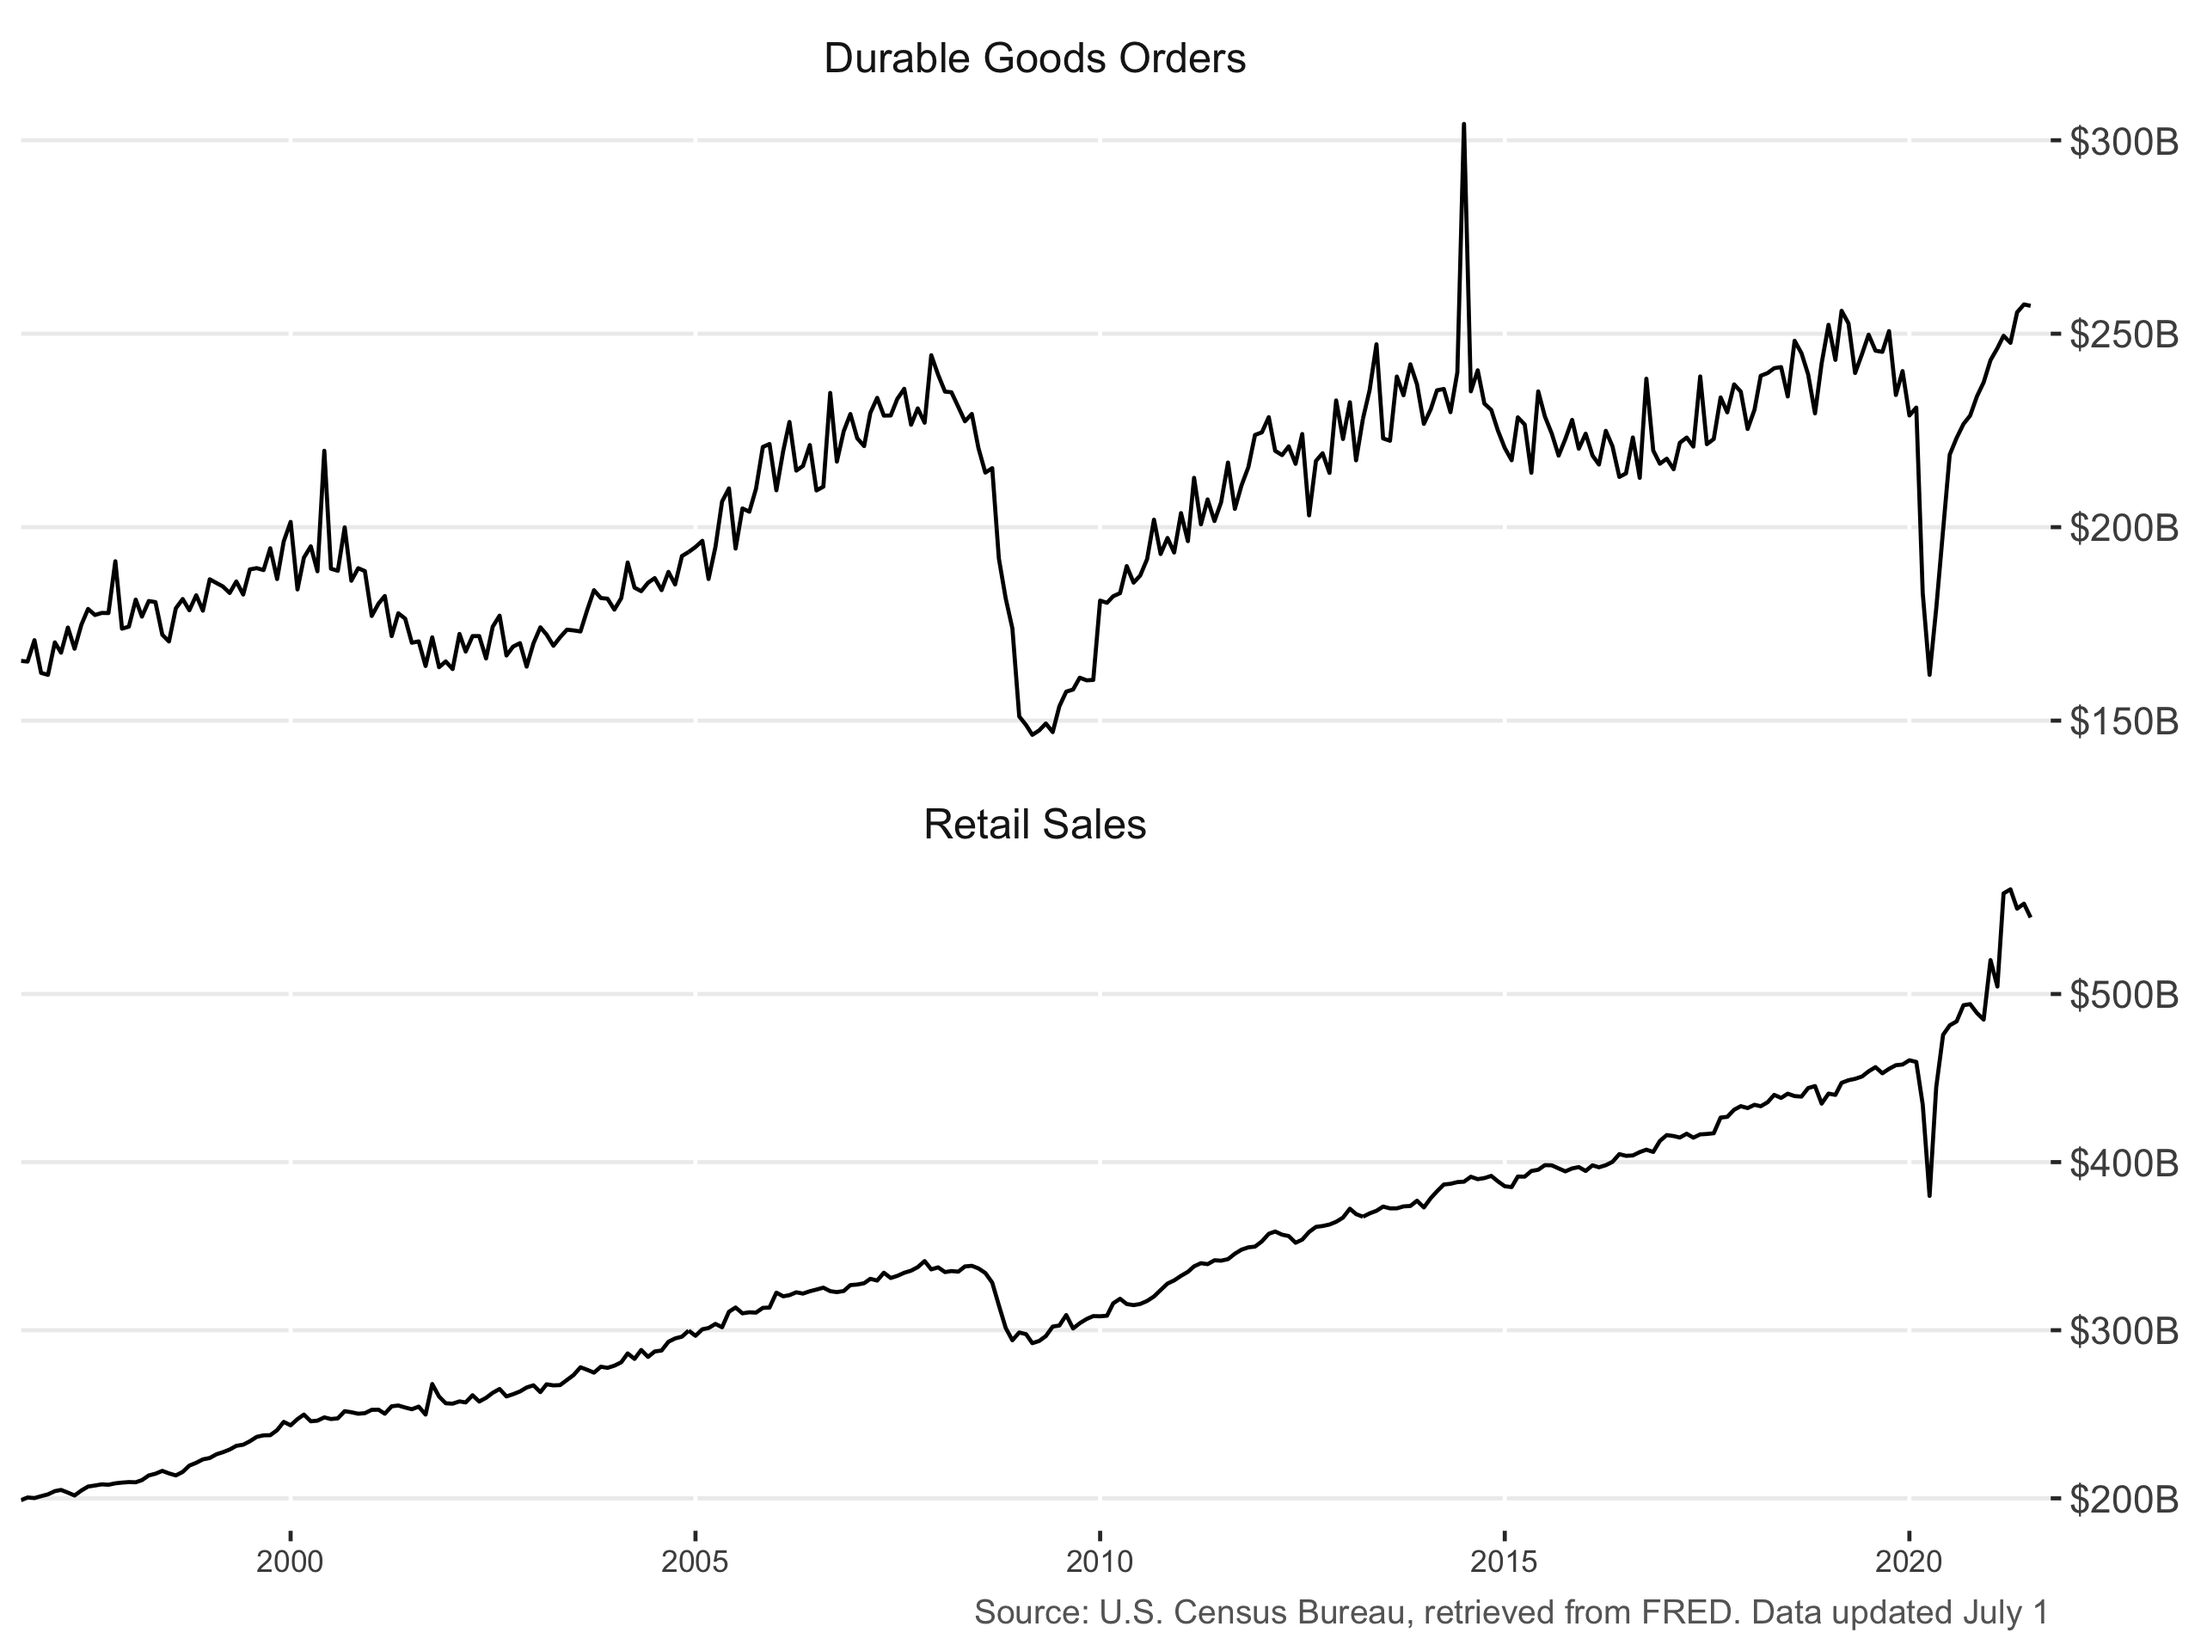
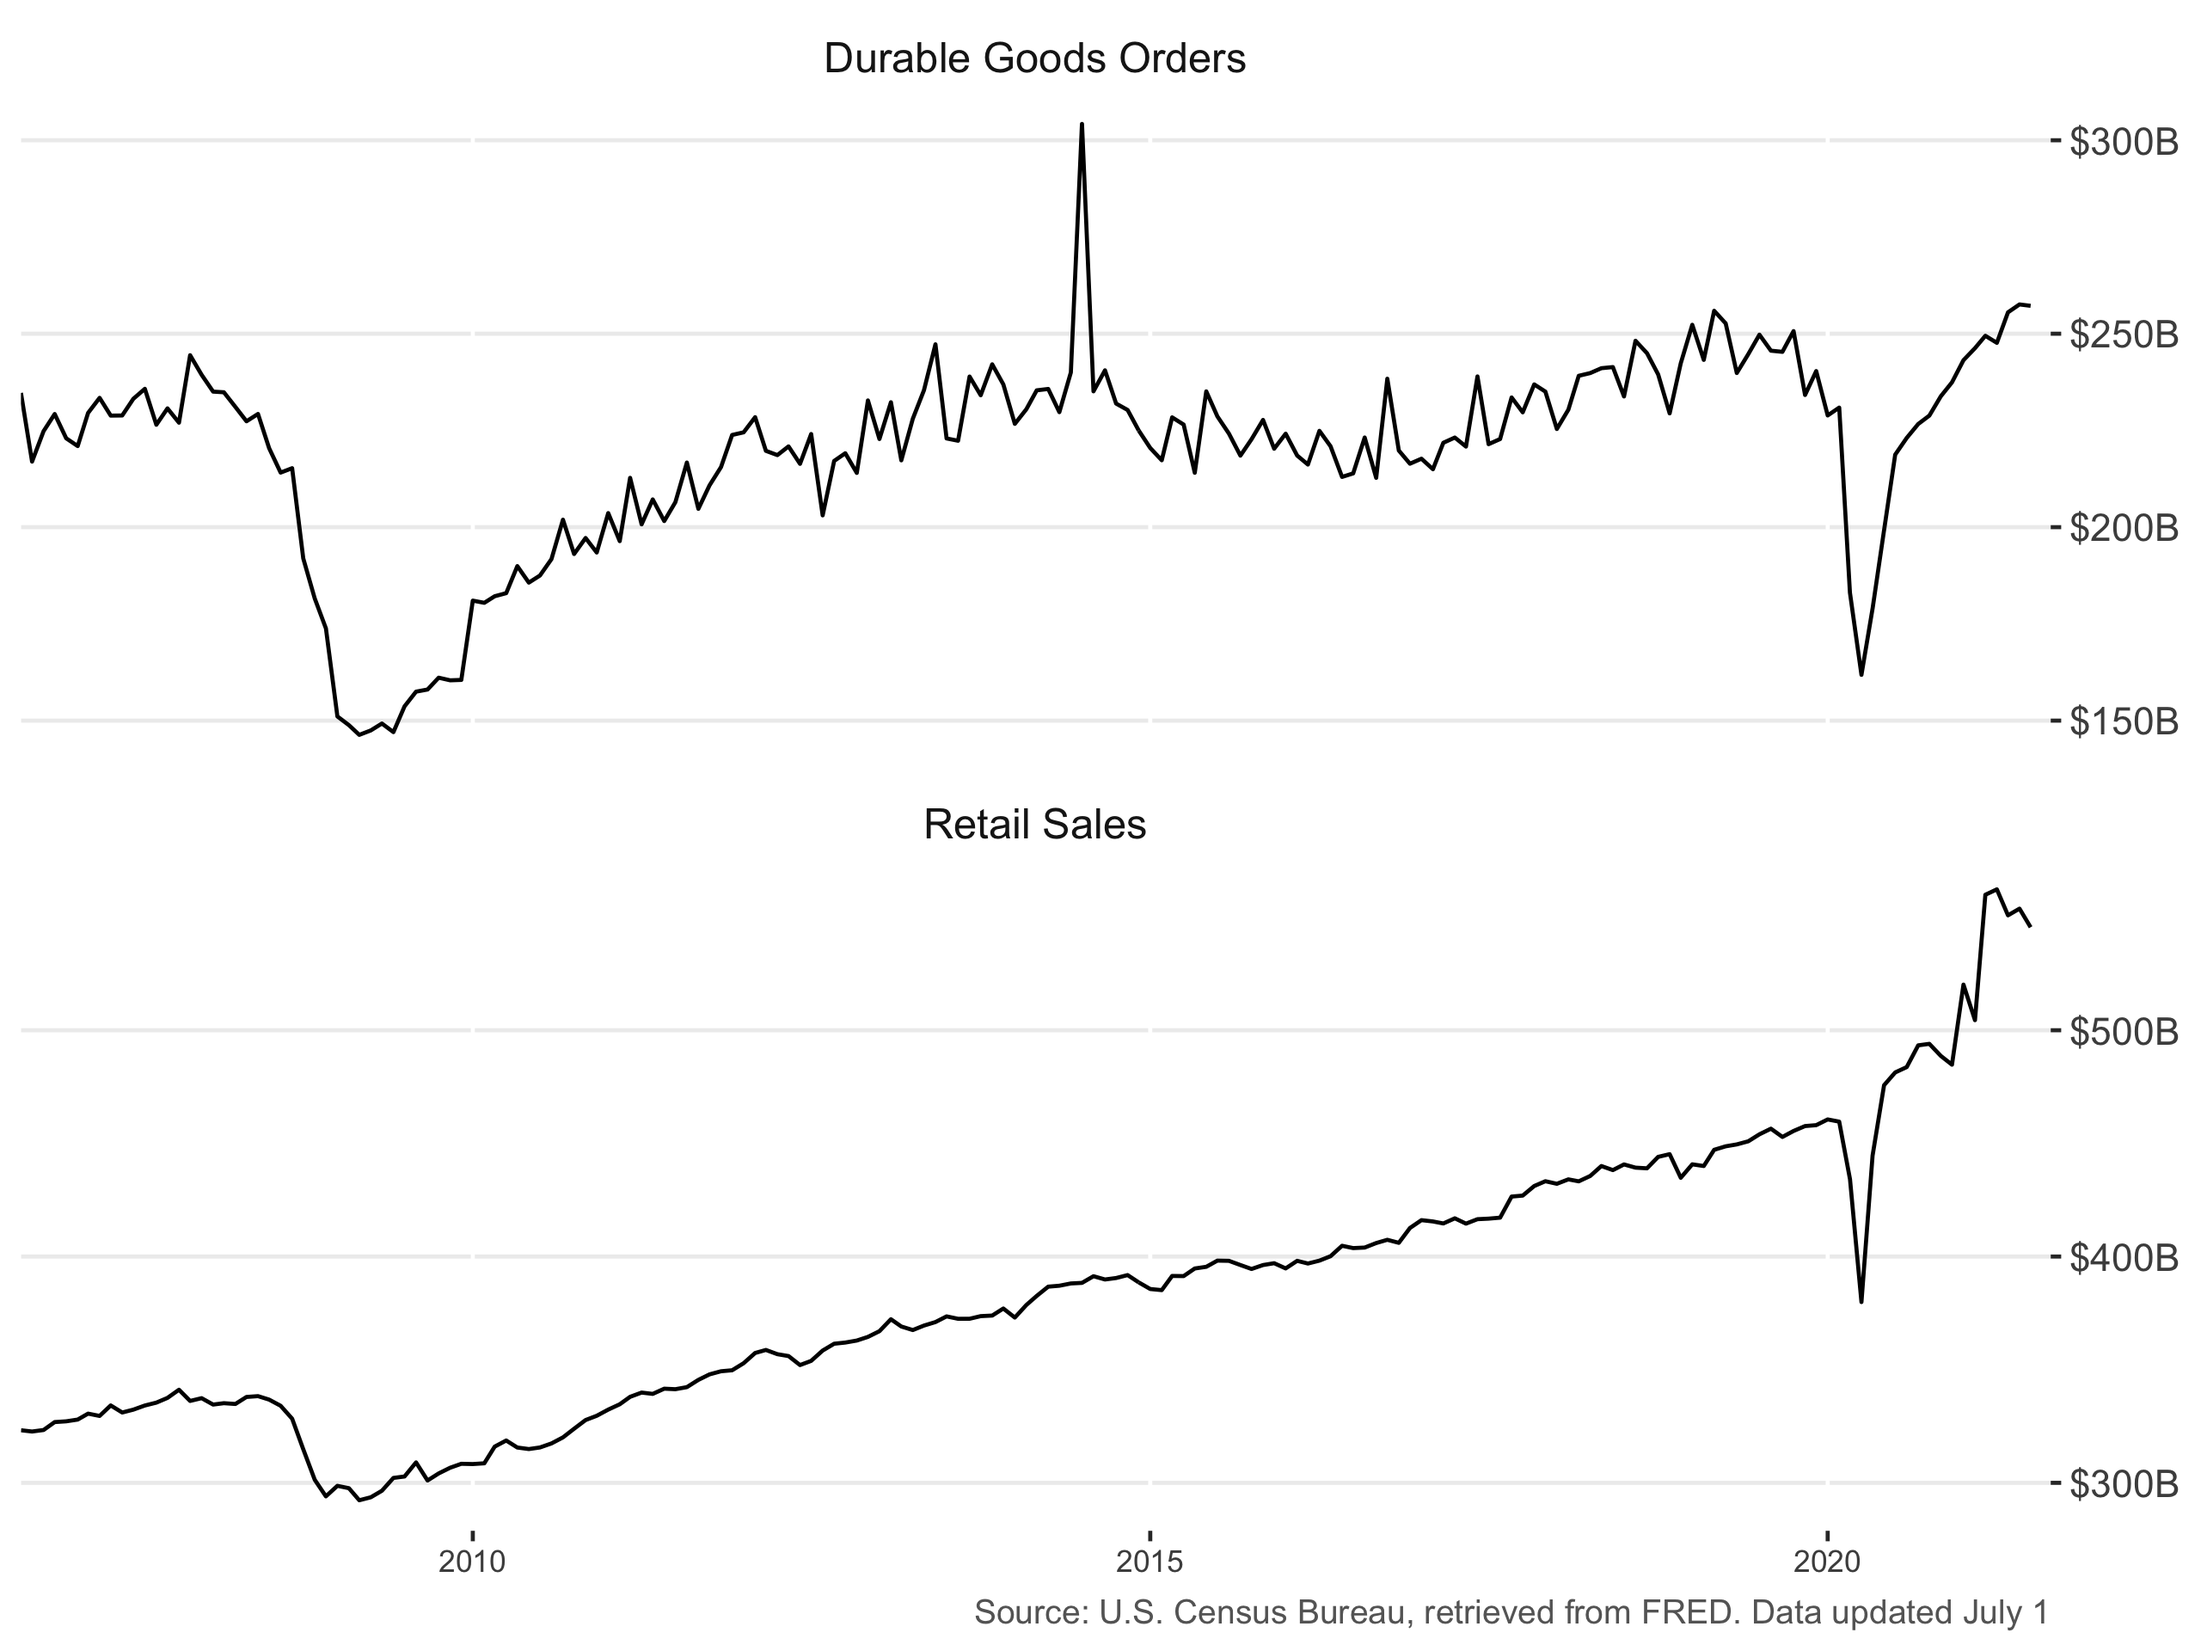
change to 15 years

diff --git a/charts/economy.md b/charts/economy.md
@@ -14,7 +14,5 @@ permalink: /charts/economy/
 
 ![Retail Sales and Durable Goods Orders]({{ site.baseurl }}/plots/retail_sales_durable_goods.png)
 
-![Gini Index]({{ site.baseurl }}/plots/gini_index.png)
-
 ![Consumer Sentiment]({{ site.baseurl }}/plots/consumer_sentiment.png)
 
